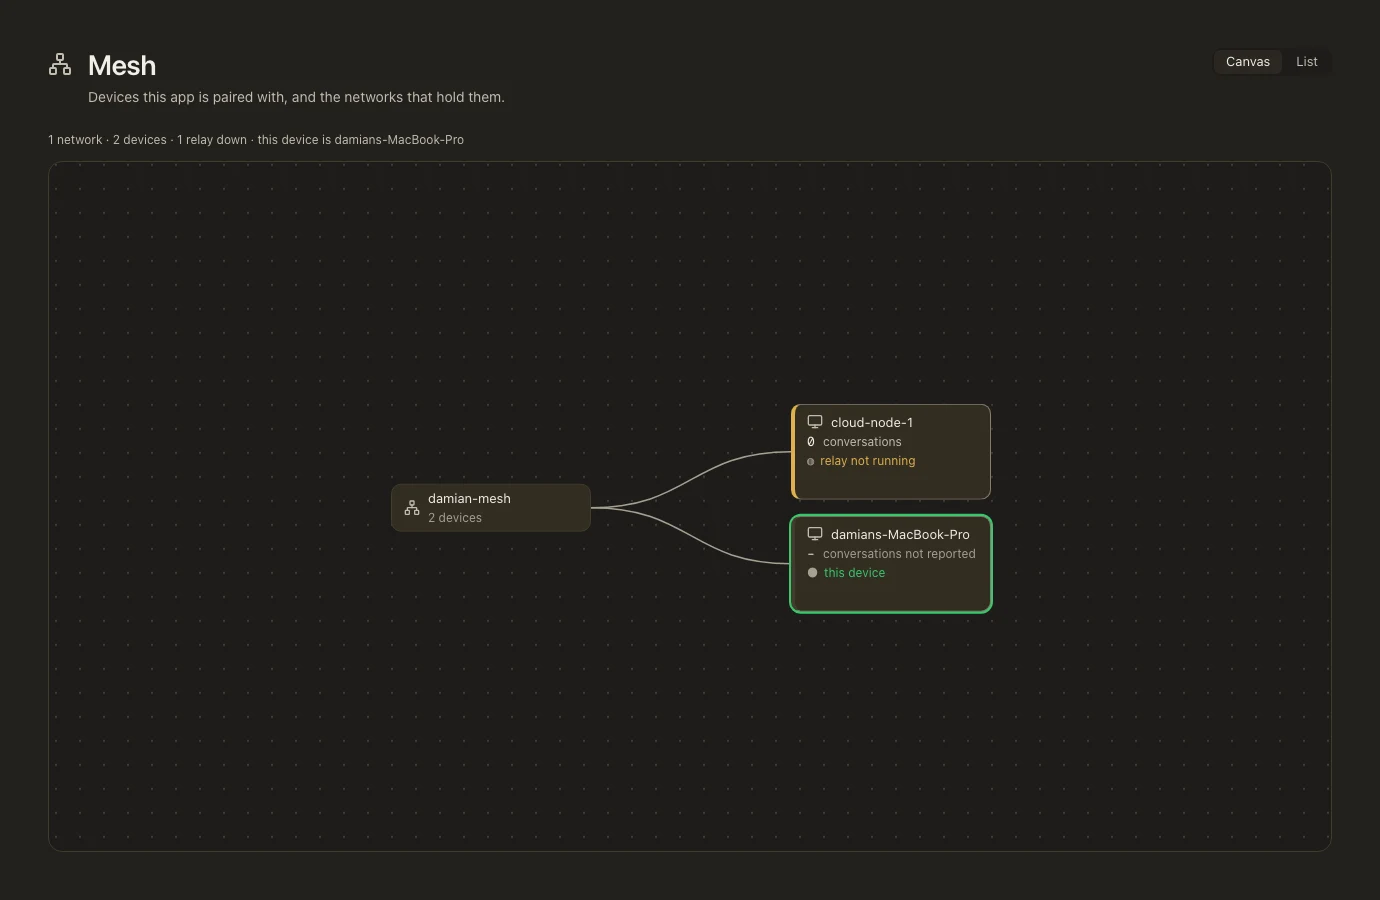
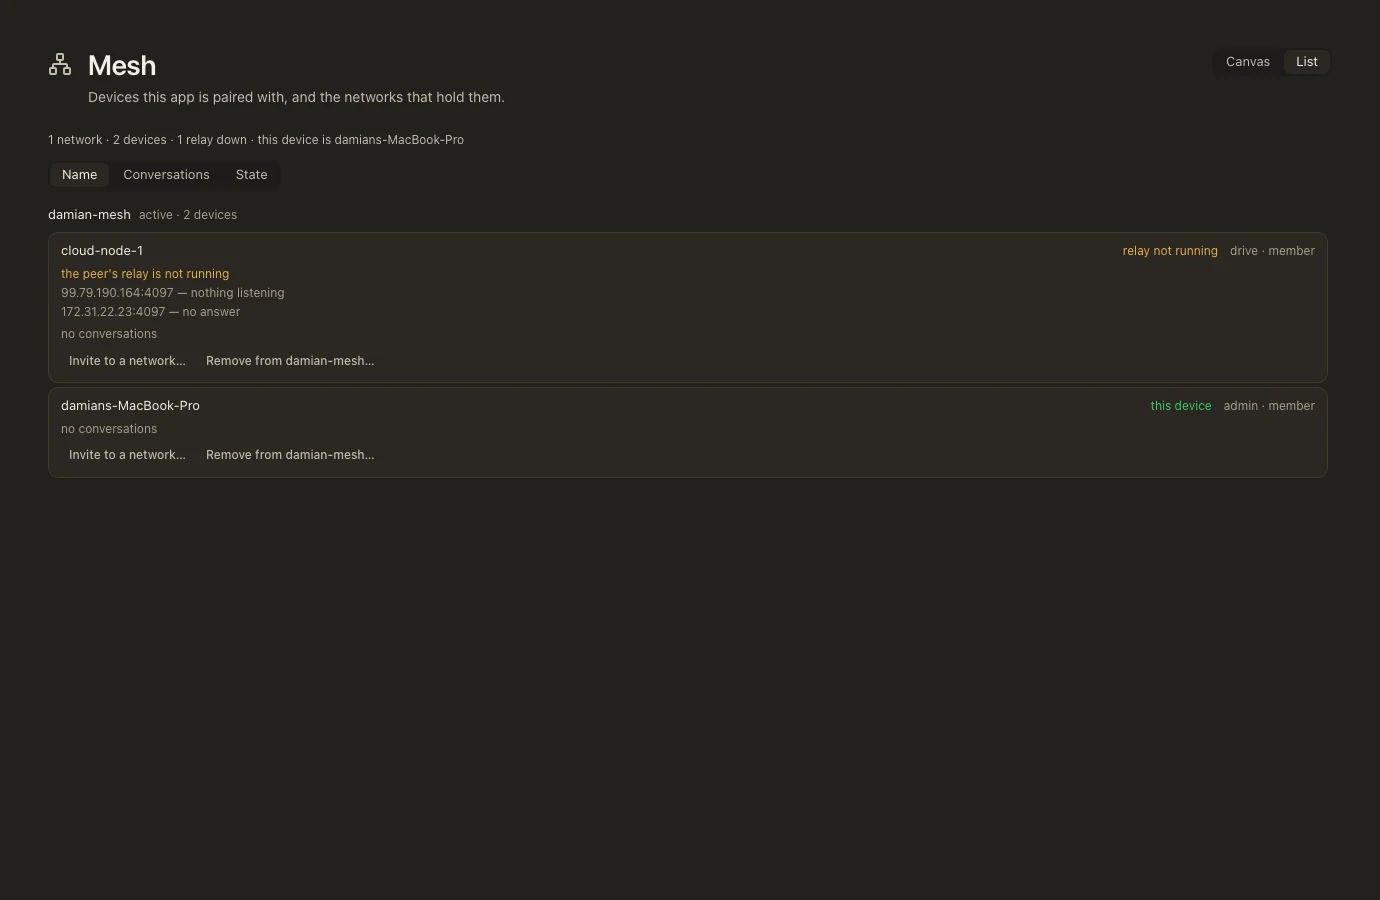
fix(mesh): make the list evidence frame a render, not a click
The RelayDownList story drove the Canvas|List toggle in play; the evidence rig photographed the frame before the click landed and committed a Canvas picture under the list's name. MeshPage/MeshSurface now take an optional initialPresentation used only by the story, so the list frame is deterministic. Both palettes recaptured.

diff --git a/src/renderer/src/features/mesh/mesh-page.tsx b/src/renderer/src/features/mesh/mesh-page.tsx
@@ -100,7 +100,7 @@ import {
 import type { MeshRefusal, MeshSessionRow } from "./mesh-types";
 
 const PRESENTATIONS = ["canvas", "list"] as const;
-type Presentation = (typeof PRESENTATIONS)[number];
+export type Presentation = (typeof PRESENTATIONS)[number];
 
 const PRESENTATION_LABEL: Record<Presentation, string> = {
 	get canvas() {
@@ -151,6 +151,16 @@ type MoveReport =
 export const MeshSurface: FC<{
 	state: MeshViewState;
 	graph: MeshGraph | null;
+	/**
+	 * WHICH PRESENTATION THE TAB OPENS ON, and the one caller that sets it is a
+	 * STORY. The tab's own `Canvas | List` control owns this state from mount
+	 * onward, so the route never passes it; a story needs the List frame to be a
+	 * property of the render rather than of a click that the evidence rig may
+	 * photograph before it lands (the relay-down-list capture proved that: the
+	 * play clicked List, the frame showed Canvas). Defaulting to `canvas` keeps
+	 * every existing call byte-identical.
+	 */
+	initialPresentation?: Presentation;
 	nowSeconds: number;
 	/** A read is in flight over drawn data: the quiet header affordance. */
 	checking: boolean;
@@ -251,6 +261,7 @@ export const MeshSurface: FC<{
 	removed: { removed: string; epoch: number } | null;
 }> = ({
 	state,
+	initialPresentation = "canvas",
 	graph,
 	nowSeconds,
 	checking,
@@ -288,7 +299,8 @@ export const MeshSurface: FC<{
 	removed,
 }) => {
 	useI18nLocale();
-	const [presentation, setPresentation] = useState<Presentation>("canvas");
+	const [presentation, setPresentation] =
+		useState<Presentation>(initialPresentation);
 	const [selectedDeviceId, setSelectedDeviceId] = useState<string | null>(null);
 
 	const summary = graph ? meshSummary(graph) : "";
@@ -782,7 +794,9 @@ const emptyPlan: MovePlan = {
  * the same destination the catch-all gives - rather than drawing a tab for a feature
  * the backend no longer advertises.
  */
-export const MeshPage: FC = () => {
+export const MeshPage: FC<{ initialPresentation?: Presentation }> = ({
+	initialPresentation,
+}) => {
 	useI18nLocale();
 	const capabilities = useDesktopCapabilities();
 	const enabled = desktopFeatureState(capabilities.data, "peers") === "enabled";
@@ -1046,6 +1060,7 @@ export const MeshPage: FC = () => {
 
 	return (
 		<MeshSurface
+			initialPresentation={initialPresentation}
 			state={state}
 			graph={graph}
 			nowSeconds={nowSeconds}

diff --git a/src/renderer/src/features/mesh/mesh-page.stories.tsx b/src/renderer/src/features/mesh/mesh-page.stories.tsx
@@ -743,10 +743,15 @@ export const RelayDown: Story = {
 export const RelayDownList: Story = {
 	render: () => {
 		installBridge(relayDownFixture());
-		return <MeshPage />;
+		/*
+		 * THE LIST IS THE RENDER, NOT A CLICK. The first attempt drove the toggle
+		 * in `play`; the evidence rig photographed the frame before the click
+		 * landed and committed a Canvas picture under the list's name (design
+		 * review round 1, D1). The tab's control still owns the state after mount.
+		 */
+		return <MeshPage initialPresentation="list" />;
 	},
 	play: async () => {
-		(await screen.findByRole("button", { name: "List" })).click();
 		await screen.findByText("Sort devices by");
 		await screen.findByText("the peer's relay is not running");
 		await screen.findByText("99.79.190.164:4097 — nothing listening");
